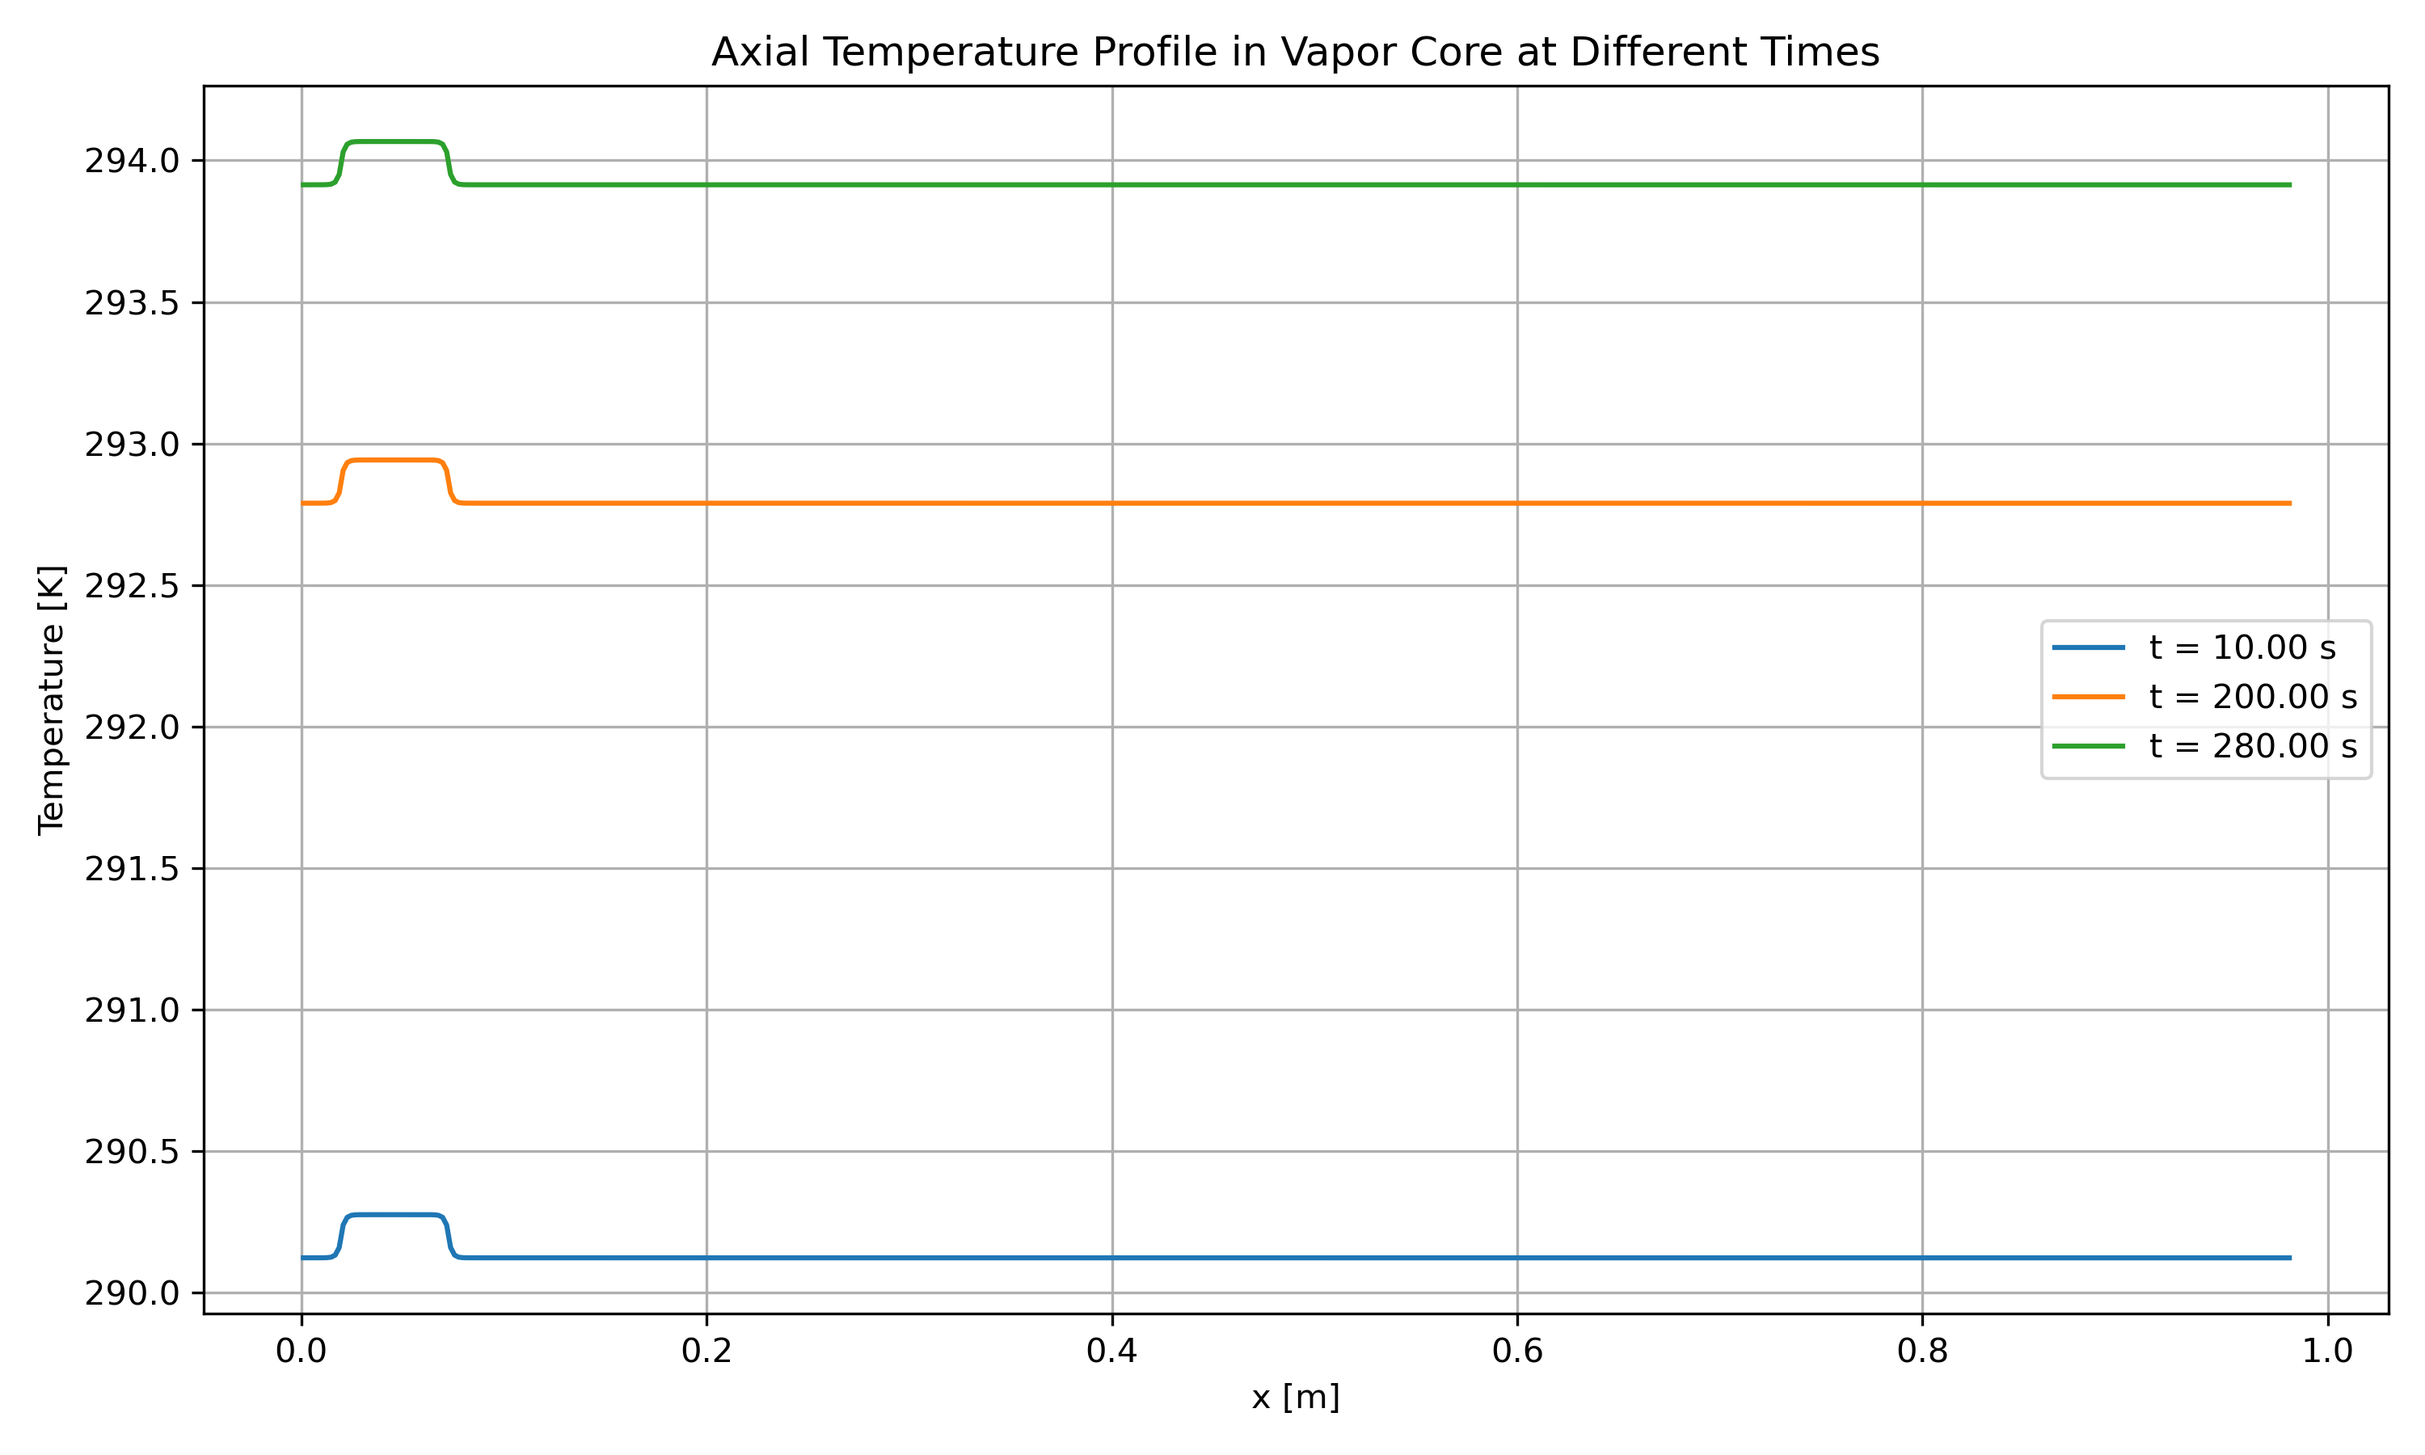
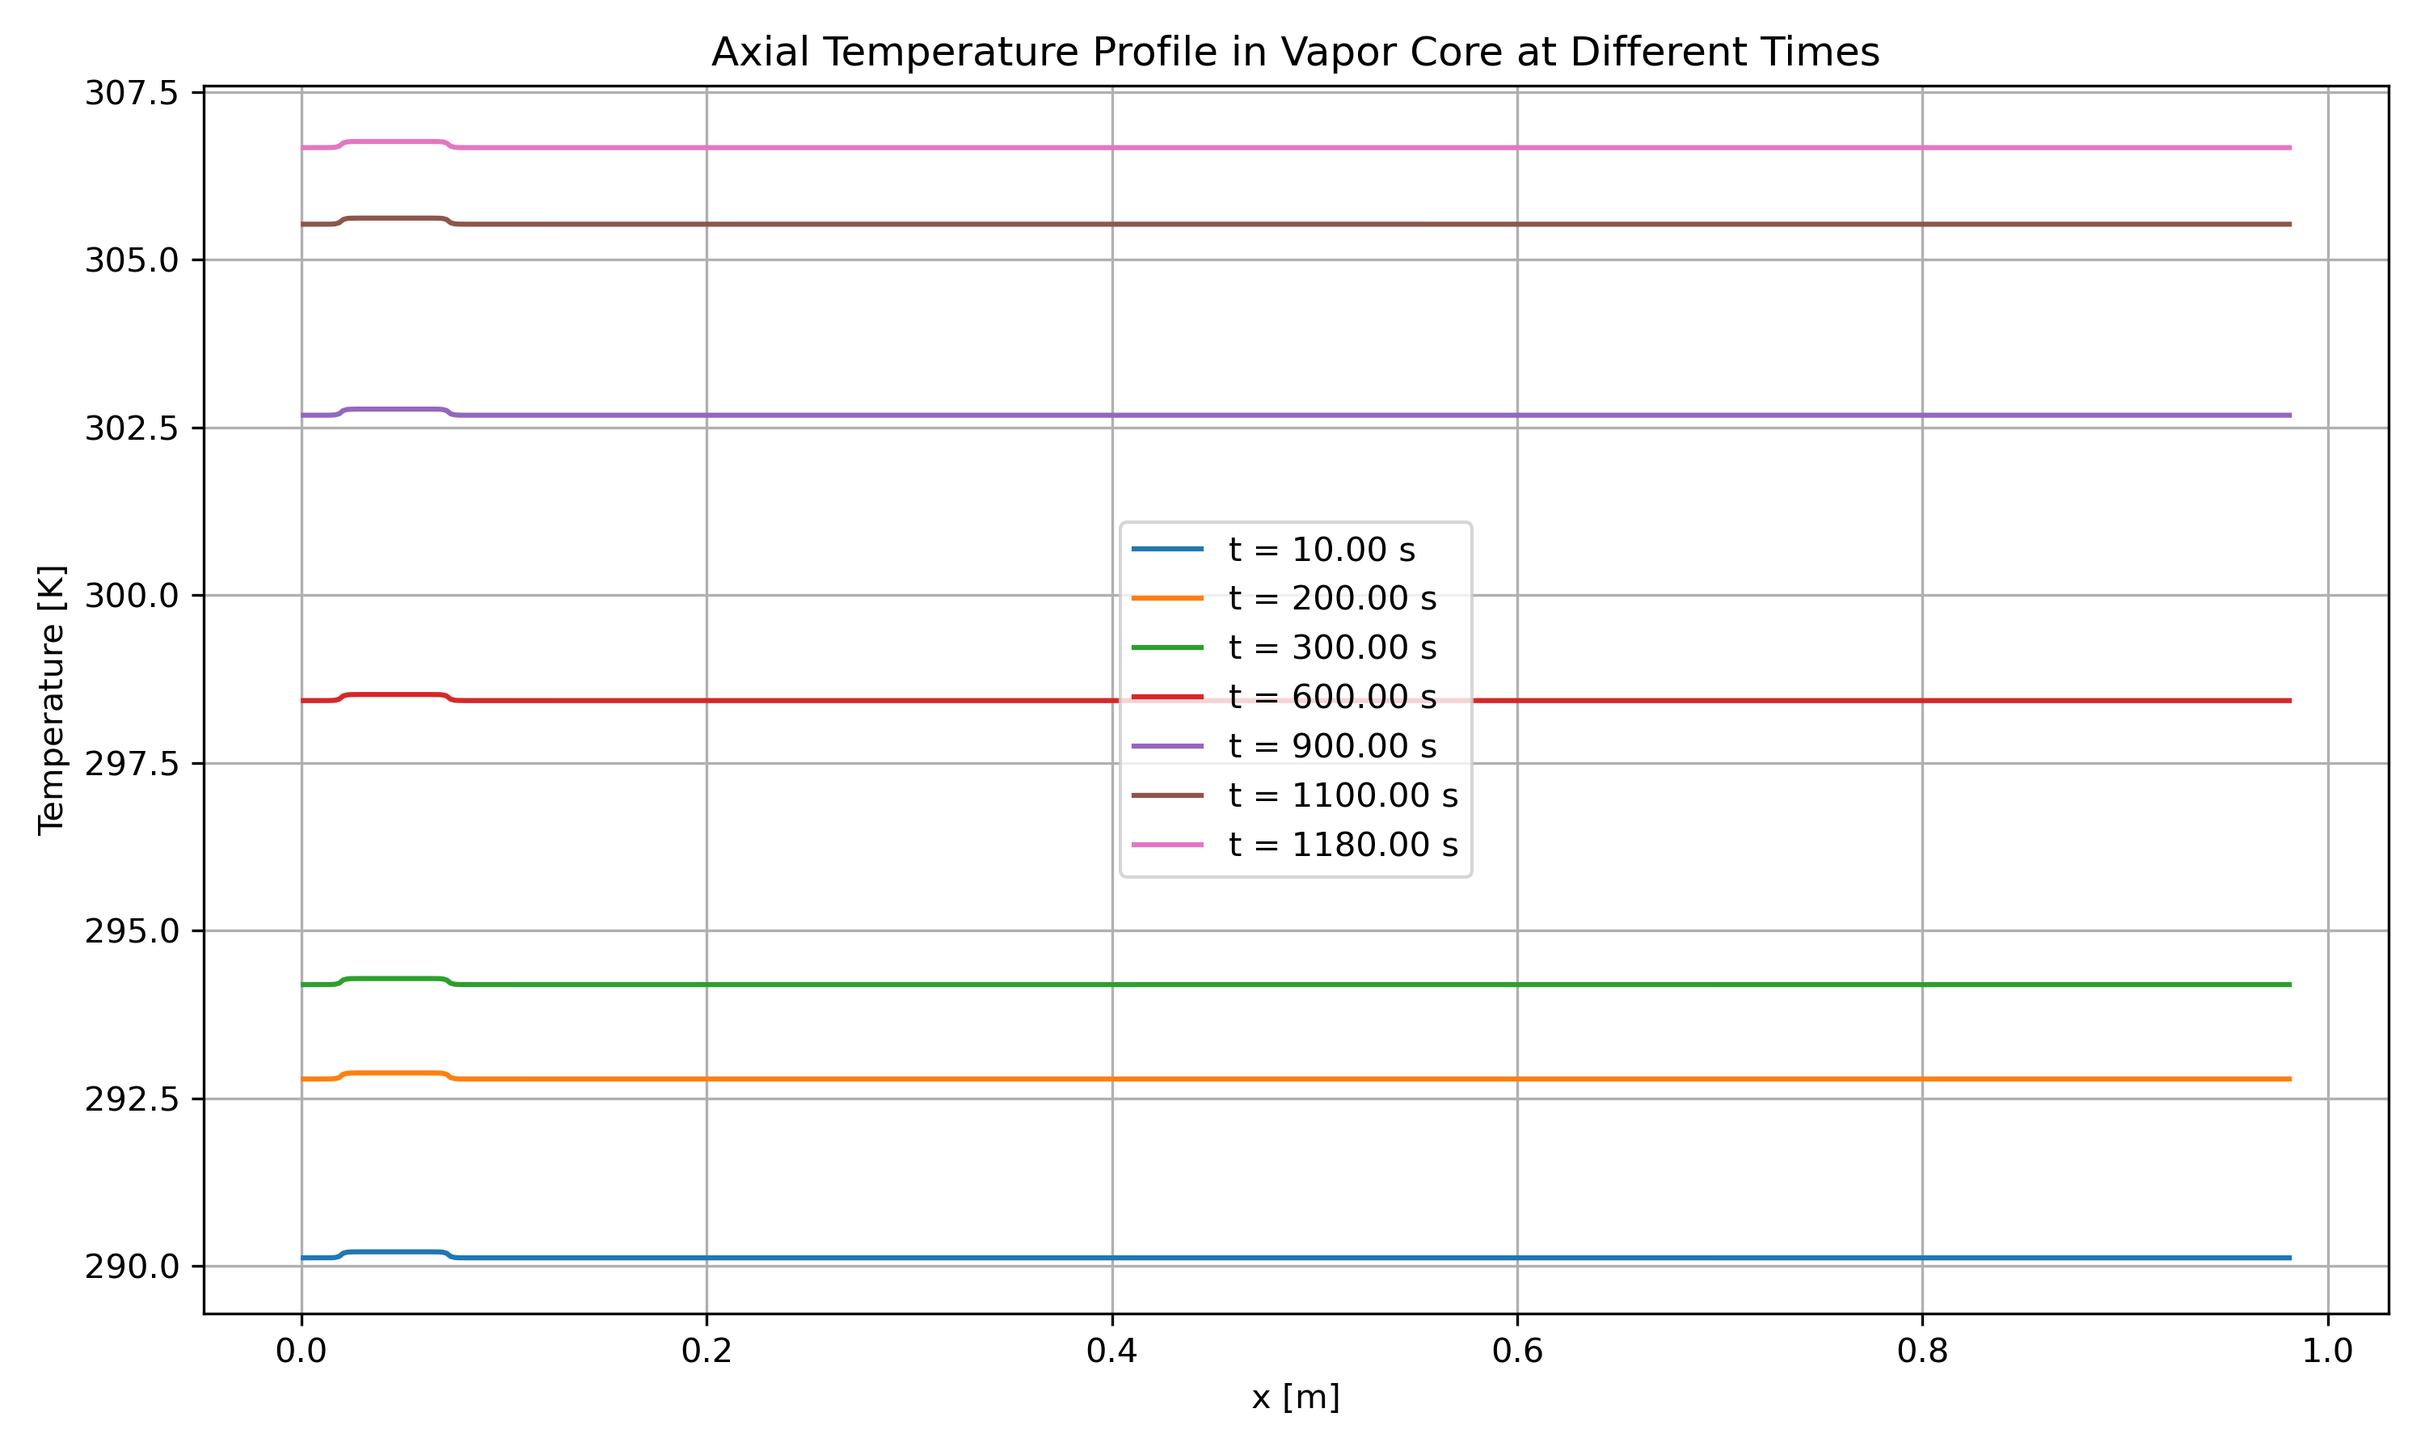
Latest Changes

diff --git a/src/2d/main.py b/src/2d/main.py
@@ -52,7 +52,7 @@ x_cell, y_cell = mesh.cellCenters
 # Define the primary variable (temperature)
 # ----------------------------------------
 
-T = CellVariable(name="Temperature", mesh=mesh, value=all_params["T_amb"])
+T = CellVariable(name="Temperature", mesh=mesh, value=all_params["T_amb"], hasOld=True)
 
 # ----------------------------------------
 # Define material properties (Tempertaure-dependent!)
@@ -68,7 +68,6 @@ rho_wall_cond = steel_properties['density_cond'](T) # CellTypes 20 and 21 and on
 k_wick = wick_properties['thermal_conductivity'](T, sodium_properties, steel_properties, parameters) # CellTypes 10 and 11
 c_p_wick = wick_properties['specific_heat'](T, sodium_properties, steel_properties, parameters) # CellTypes 10 and 11
 rho_wick = wick_properties['density'](T, sodium_properties, steel_properties, parameters) # CellTypes 10 and 11
-
 
 # Vapor core properties
 k_vc_evap_cond = vc_properties['thermal_conductivity'](T, mesh, 'evap_cond', sodium_properties, dimensions, parameters, constants) # CellType 0
@@ -88,8 +87,11 @@ wall = (cell_types == 20) | (cell_types == 21)
 wall_cond = wall & (x_cell > dimensions['L_e'] + dimensions['L_a'])
 wall_evap_adia = wall & (x_cell < dimensions['L_e'] + dimensions['L_a']) # Wall in evaporator and adiabatic regions
 
-preview_cell_mask(mesh, wall_cond, title="Wall Condenser Region")
+# end_cap_mask = (cell_types == 0) & (x_cell < 0.001) 
+
+# preview_cell_mask(mesh, wall_cond, title="Wall Condenser Region")
 # preview_cell_mask(mesh, wall_evap_adia, title="Wall Evaporator and Adiabatic Region")
+# preview_cell_mask(mesh, end_cap_mask, title="End Cap Region")
 
 # Calculate D = k / (rho * c_p)
 D_expr = 0 * T
@@ -102,6 +104,31 @@ D_expr = D_expr + ((wick) * (k_wick / (rho_wick * c_p_wick + epsilon)))
 D_expr = D_expr + ((wall_cond) * (k_wall / (rho_wall_cond * c_p_wall + epsilon)))
 D_expr = D_expr + ((wall_evap_adia) * (k_wall / (rho_wall_evap_adia * c_p_wall + epsilon)))
 
+D_var = CellVariable(name="Diffusivity", mesh=mesh, value=D_expr, hasOld=True)
+
+# ----------------------------------------
+# Define CellVariables for k, rho, c_p for plotting
+# ----------------------------------------
+k_plot_expr = 0 * T
+k_plot_expr = k_plot_expr + (vc_evap_cond * k_vc_evap_cond)
+k_plot_expr = k_plot_expr + (vc_adiabatic * k_vc_adiabatic)
+k_plot_expr = k_plot_expr + (wick * k_wick)
+k_plot_expr = k_plot_expr + (wall * k_wall) # k_wall is the same for wall_cond and wall_evap_adia
+k_plot_var = CellVariable(name="ThermalConductivity", mesh=mesh, value=k_plot_expr, hasOld=True)
+
+rho_plot_expr = 0 * T
+rho_plot_expr = rho_plot_expr + ((vc_evap_cond | vc_adiabatic) * rho_vc) # rho_vc is same for both
+rho_plot_expr = rho_plot_expr + (wick * rho_wick)
+rho_plot_expr = rho_plot_expr + (wall_cond * rho_wall_cond)
+rho_plot_expr = rho_plot_expr + (wall_evap_adia * rho_wall_evap_adia)
+rho_plot_var = CellVariable(name="Density", mesh=mesh, value=rho_plot_expr, hasOld=True)
+
+cp_plot_expr = 0 * T
+cp_plot_expr = cp_plot_expr + ((vc_evap_cond | vc_adiabatic) * c_p_vc) # c_p_vc is same for both
+cp_plot_expr = cp_plot_expr + (wick * c_p_wick)
+cp_plot_expr = cp_plot_expr + (wall * c_p_wall) # c_p_wall is same for both
+cp_plot_var = CellVariable(name="SpecificHeat", mesh=mesh, value=cp_plot_expr, hasOld=True)
+
 # ----------------------------------------
 # Define the PDE
 # ----------------------------------------
@@ -112,80 +139,116 @@ eq = TransientTerm(var=T) == DiffusionTerm(coeff=D_expr, var=T)
 # Apply boundary conditions
 # ----------------------------------------
 
-X, Y = mesh.faceCenters
-faces_evaporator = (mesh.facesTop & ((X < dimensions['L_input_right']) & (X > dimensions['L_input_left'])))
-faces_condenser = (mesh.facesTop & ((X > dimensions['L_e'] + dimensions['L_a']) & (X < L_total)))
-faces_end_cap_vc = mesh.facesLeft & (Y <= dimensions['R_vc'])
+x_face, y_face = mesh.faceCenters
+faces_evaporator = (mesh.facesTop & ((x_face < dimensions['L_input_right']) & (x_face > dimensions['L_input_left'])))
+# faces_condenser = (mesh.facesTop & ((x_face > dimensions['L_e'] + dimensions['L_a']) & (x_face < L_total))) # Not used
 
-x_cell, y_cell = mesh.cellCenters
-cells_evaporator = (cell_types == 0) & (x_cell < dimensions['L_input_right']) & (x_cell > dimensions['L_input_left'])
-cells_condenser = (cell_types == 0) & ((x_cell > dimensions['L_e'] + dimensions['L_a']) & (x_cell < L_total))
+cells_evaporator = (cell_types == 0) & (x_cell < dimensions['L_input_right']) & (x_cell > dimensions['L_input_left']) # Not directly used for this BC
+# cells_condenser = (cell_types == 0) & ((x_cell > dimensions['L_e'] + dimensions['L_a']) & (x_cell < L_total)) # Not used
 
 # preview_face_mask(mesh, faces_evaporator, title="Evaporator Face Mask")
-# preview_face_mask(mesh, faces_condenser, title="Condenser Face Mask")
+# preview_face_mask(mesh, faces_condenser, title="Condenser Face Mask") # Condenser not used
 
 # Define face-normal unit vectors
 n = mesh.faceNormals
 
-# Apply the flux boundary condition at the evaporator faces
-# TODO: DISCUSS TAKING THE MEAN
-T_evap = T.value[cells_evaporator].mean()  # Get temperature values at the evaporator faces
-q_flux = parameters['Q_input_flux'] / steel_properties['thermal_conductivity'](T_evap)  # Calculate the heat flux (W/m^2)
-T.faceGrad.constrain(q_flux * n, where=faces_evaporator)
+# Calculate the volumetric heat source from the input flux (W/m^3)
+volumetric_heat_source_W_m3 = (faces_evaporator * parameters['Q_input_flux'] * n).divergence
 
-T_rad = T.value[cells_condenser].mean()  # Get temperature values at the condenser faces
-q_rad = constants['sigma'] * parameters['emissivity'] * (T_rad**4 - parameters['T_amb']**4) # Radiative heat flux (W/m^2)
-T.faceGrad.constrain(-q_rad / steel_properties['thermal_conductivity'](T_rad) * n, where=faces_condenser)
+# Get the rho * c_p for the wall cells in the evaporator region
+# These are CellVariables and will be evaluated cell by cell where the source is applied.
+# rho_wall_evap_adia and c_p_wall are already defined as CellVariable functions of T
+rho_cp_wall_evaporator = rho_wall_evap_adia * c_p_wall
+
+# Add a small epsilon to prevent division by zero if rho_cp could be zero.
+epsilon_source_denom = 1e-12 
+
+# Convert the volumetric heat source to K/s
+source_term_K_s = volumetric_heat_source_W_m3 / (rho_cp_wall_evaporator + epsilon_source_denom)
+
+# Re-define eq with the correctly scaled evaporator flux source term
+eq = TransientTerm(var=T) == (DiffusionTerm(coeff=D_expr, var=T) + source_term_K_s)
+
+
+# Apply the radiative boundary condition at the condenser faces - IGNORED AS PER REQUEST
 
 # ----------------------------------------
 # Time-stepping loop
 # ----------------------------------------
 
-# if __name__ == "__main__":
-#     viewer = Viewer(vars=T, title="Temperature Distribution")
+# Variable to plot alongside Temperature. Options: "D_var", "k_plot_var", "rho_plot_var", "cp_plot_var"
+plot_selection = "D_var" # CHANGE THIS STRING TO VISUALIZE OTHER VARIABLES
 
-time_step = all_params['dt']
-steps = int(all_params['t_end'] / time_step)
+plottable_vars_map = {
+    "D_var": D_var,
+    "k_plot_var": k_plot_var,
+    "rho_plot_var": rho_plot_var,
+    "cp_plot_var": cp_plot_var
+}
+selected_aux_var = plottable_vars_map[plot_selection]
 
-temperature_evolution = []  # List to store temperature values over time
-time_values = []  # List to store time values
-measure_times = [500, 10000, 14000]  # Time points to measure temperature (t / dt)
+if __name__ == "__main__":
+    # Note: datamax might need adjustment based on the selected variable
+    viewer = Viewer(vars=(T, selected_aux_var), title=f"Temperature and {selected_aux_var.name} Distribution", datamin=0, datamax=3000)
 
-# Mask for vapor core cells (cell_types == 0)
-vapor_core_mask = (cell_types == 0)
+measure_times = [300, 400, 450, 4000, 6000, 8000]  # Time points to measure temperature (t / dt)
 
-# Prepare to store temperature profiles at measure_times
+# Find topmost wall cells: any face of the cell is a top face
+cellFaceIDs = npx.array(mesh.cellFaceIDs)  # shape: (nFacesPerCell, nCells)
+facesTop = npx.array(mesh.facesTop)        # shape: (nFaces,)
+
+# For each cell, check if any of its faces are top faces
+top_wall_mask = wall & npx.any(facesTop[cellFaceIDs], axis=0)
+
+# preview_cell_mask(mesh, top_wall_mask, title="Top Wall Cells")
+
+# Prepare to store temperature profiles at measure_times for top wall cells
 profiles = []
 profile_times = []
 
-# from fipy import LinearLUSolver
-# solver = LinearLUSolver(tolerance=1e-8, iterations=1000)
+# Setting up timestepping
+dt = all_params['dt']
+timestep = 0
+run_time = all_params['t_end']
+t = timestep * dt
 
-# Run the simulation and store T at measure_times
-T.setValue(all_params["T_amb"])  # Reset temperature
-for step in tqdm(range(steps)):
-    eq.solve(var=T, dt=time_step)
-    # viewer.plot()
-    if step in measure_times:
-        profiles.append(T.value[wall].copy())
-        profile_times.append(step * time_step)
+from fipy.solvers import LinearLUSolver
+solver = LinearLUSolver(tolerance=1e-8, iterations=1000)
 
+while t < run_time:
+    t += dt
+    timestep += 1
+    T.updateOld()
+    D_var.setValue(D_expr) # Explicitly update D_var after T changes
+    k_plot_var.setValue(k_plot_expr)
+    rho_plot_var.setValue(rho_plot_expr)
+    cp_plot_var.setValue(cp_plot_expr)
+    res = 1e+10
+    if timestep in measure_times:
+        profiles.append(T.value[top_wall_mask].copy())
+        profile_times.append(timestep * dt)
+    while res > 1e-4:
+        # print(f"Current T min: {T.min()}, T max: {T.max()}")
+        res = eq.sweep(dt=dt, solver=solver)
+    if __name__ == "__main__":
+        viewer.plot()
+    print(f"Time: {t:.2f} / {run_time:.2f} s")
 
-# Get x-coordinates for vapor core cells
-x_vapor = x_cell[vapor_core_mask]
+# Get x-coordinates for top wall cells
+x_top_wall = x_cell[top_wall_mask]
 
 # Sort by x for plotting
-sort_idx = x_vapor.argsort()
-x_vapor_sorted = x_vapor[sort_idx]
+sort_idx = x_top_wall.argsort()
+x_top_wall_sorted = x_top_wall[sort_idx]
 
 plt.figure(figsize=(10, 6))
 for i, (T_profile, t) in enumerate(zip(profiles, profile_times)):
-    plt.plot(x_vapor_sorted, T_profile[sort_idx], label=f"t = {t:.2f} s")
+    plt.plot(x_top_wall_sorted, T_profile[sort_idx], label=f"t = {t:.2f} s")
 plt.xlabel("x [m]")
 plt.ylabel("Temperature [K]")
-plt.title("Axial Temperature Profile in Vapor Core at Different Times")
+plt.title("Axial Temperature Profile in Topmost Wall Cells at Different Times")
 plt.legend()
 plt.grid(True)
 plt.tight_layout()
-plt.savefig("plots/vapor_core_axial_profiles.png", dpi=300)
+plt.savefig("plots/top_wall_axial_profiles.png", dpi=300)
 plt.show()

diff --git a/src/2d/material_properties.py b/src/2d/material_properties.py
@@ -3,13 +3,14 @@ from fipy.tools import numerix as npx
 
 # --- Constants ---
 T_Na_crit = 2509.46  # K
+delta_H_melt = 113e3  # J/kg
 
 # --- Sodium: Solid, Liquid, Vapor Properties ---
 def rho_sodium_s(T): return 972.70 - 0.2154 * (T - 273.15)
 def rho_sodium_l(T): return 219 + 275.32 * (1 - T / T_Na_crit) + 511.58 * (1 - T / T_Na_crit)**0.5
 
 def h_vap_sodium(T):
-    return (393.37 * (1 - T / T_Na_crit) + 4398.6 * (1 - T / T_Na_crit)**0.28302) * 1e3
+    return (393.37 * (1 - T / T_Na_crit) + 4398.6 * (1 - T / T_Na_crit)**0.29302) * 1e3
 
 def dPdT_sodium(T):
     return (12633.73 / T**2 - 0.4672 / T) * npx.exp(11.9463 - 12633.73 / T - 0.4672 * npx.log(T)) * 1e6
@@ -35,7 +36,7 @@ def mu_sodium_v(T): return 6.083e-9 * T + 1.2606e-5
 def P_sat_sodium(T): return npx.exp(11.9463 - 12633.73 / T - 0.4672 * npx.log(T)) * 1e6
 
 def h_l_sodium(T):
-    return (-365.77 + 1.6582 * T - 4.2395e-4 * T**2 + 1.4847e-7 * T**3 + 2992.6 / T) * 1e3
+    return (-365.77 + 1.6582 * T - 4.2395e-4 * T**2 + 1.4847e-7 * T**3 + 2992.6 * T**-1) * 1e3
 
 def h_v_sodium(T): return h_l_sodium(T) + h_vap_sodium(T)
 
@@ -84,8 +85,8 @@ def get_k_Na_i(T, params, k_l, k_s):
 
 def get_c_p_Na_i(T, sodium_props, params, c_p_l, c_p_s):
     T_m, dT = params['T_melting_sodium'], params['delta_T_sodium']
-    h_vap = sodium_props['heat_of_vaporization'](T)
-    mid_val = (c_p_s + c_p_l) / 2 + h_vap / (2 * dT)
+    h_melt = delta_H_melt
+    mid_val = (c_p_s + c_p_l) / 2 + h_melt / (2 * dT)
     return npx.where(T < T_m - dT, c_p_s,
            npx.where(T > T_m + dT, c_p_l, mid_val))
 
@@ -107,8 +108,8 @@ def Q_sonic(T, mesh, sodium_props, dims, consts):
     T_v_0 = T.value[bottom_left_cell_mask][0]
     rho_v_0 = sodium_props['density_vapor'](T_v_0) # density at the evaporator end cap
     A_vc = npx.pi * dims['R_vc']**2
-    h_vap = sodium_props['heat_of_vaporization'](T)
-    gamma = sodium_props['specific_heat_vapor_pressure'](T) / sodium_props['specific_heat_vapor_volume'](T)
+    h_vap = sodium_props['heat_of_vaporization'](T_v_0)
+    gamma = sodium_props['specific_heat_vapor_pressure'](T_v_0) / sodium_props['specific_heat_vapor_volume'](T_v_0)
     R_g = consts['R']
 
     return (rho_v_0 * A_vc * h_vap * npx.sqrt(gamma * R_g * T_v_0)) / (npx.sqrt(2 * (gamma + 1)))
@@ -126,7 +127,7 @@ def k_eff_vc(T, mesh, region, sodium_props, dims, params, consts):
     base = (R_v**2 * P) / (4 if region == 'evap_cond' else 8) / mu + factor
     enthalpy = h_l if region == 'evap_cond' else h_v
 
-    k_eff = npx.abs(base * (enthalpy * h_vap * M**2 * P) / (R**2 * T**3))
+    k_eff = base * (enthalpy * h_vap * M**2 * P) / (R**2 * T**3)
     # --- Sonic limit enforcement ---
     # Q_sonic is a global limit, but we apply it locally for each cell
     # Assume axial direction is x (index 0)
